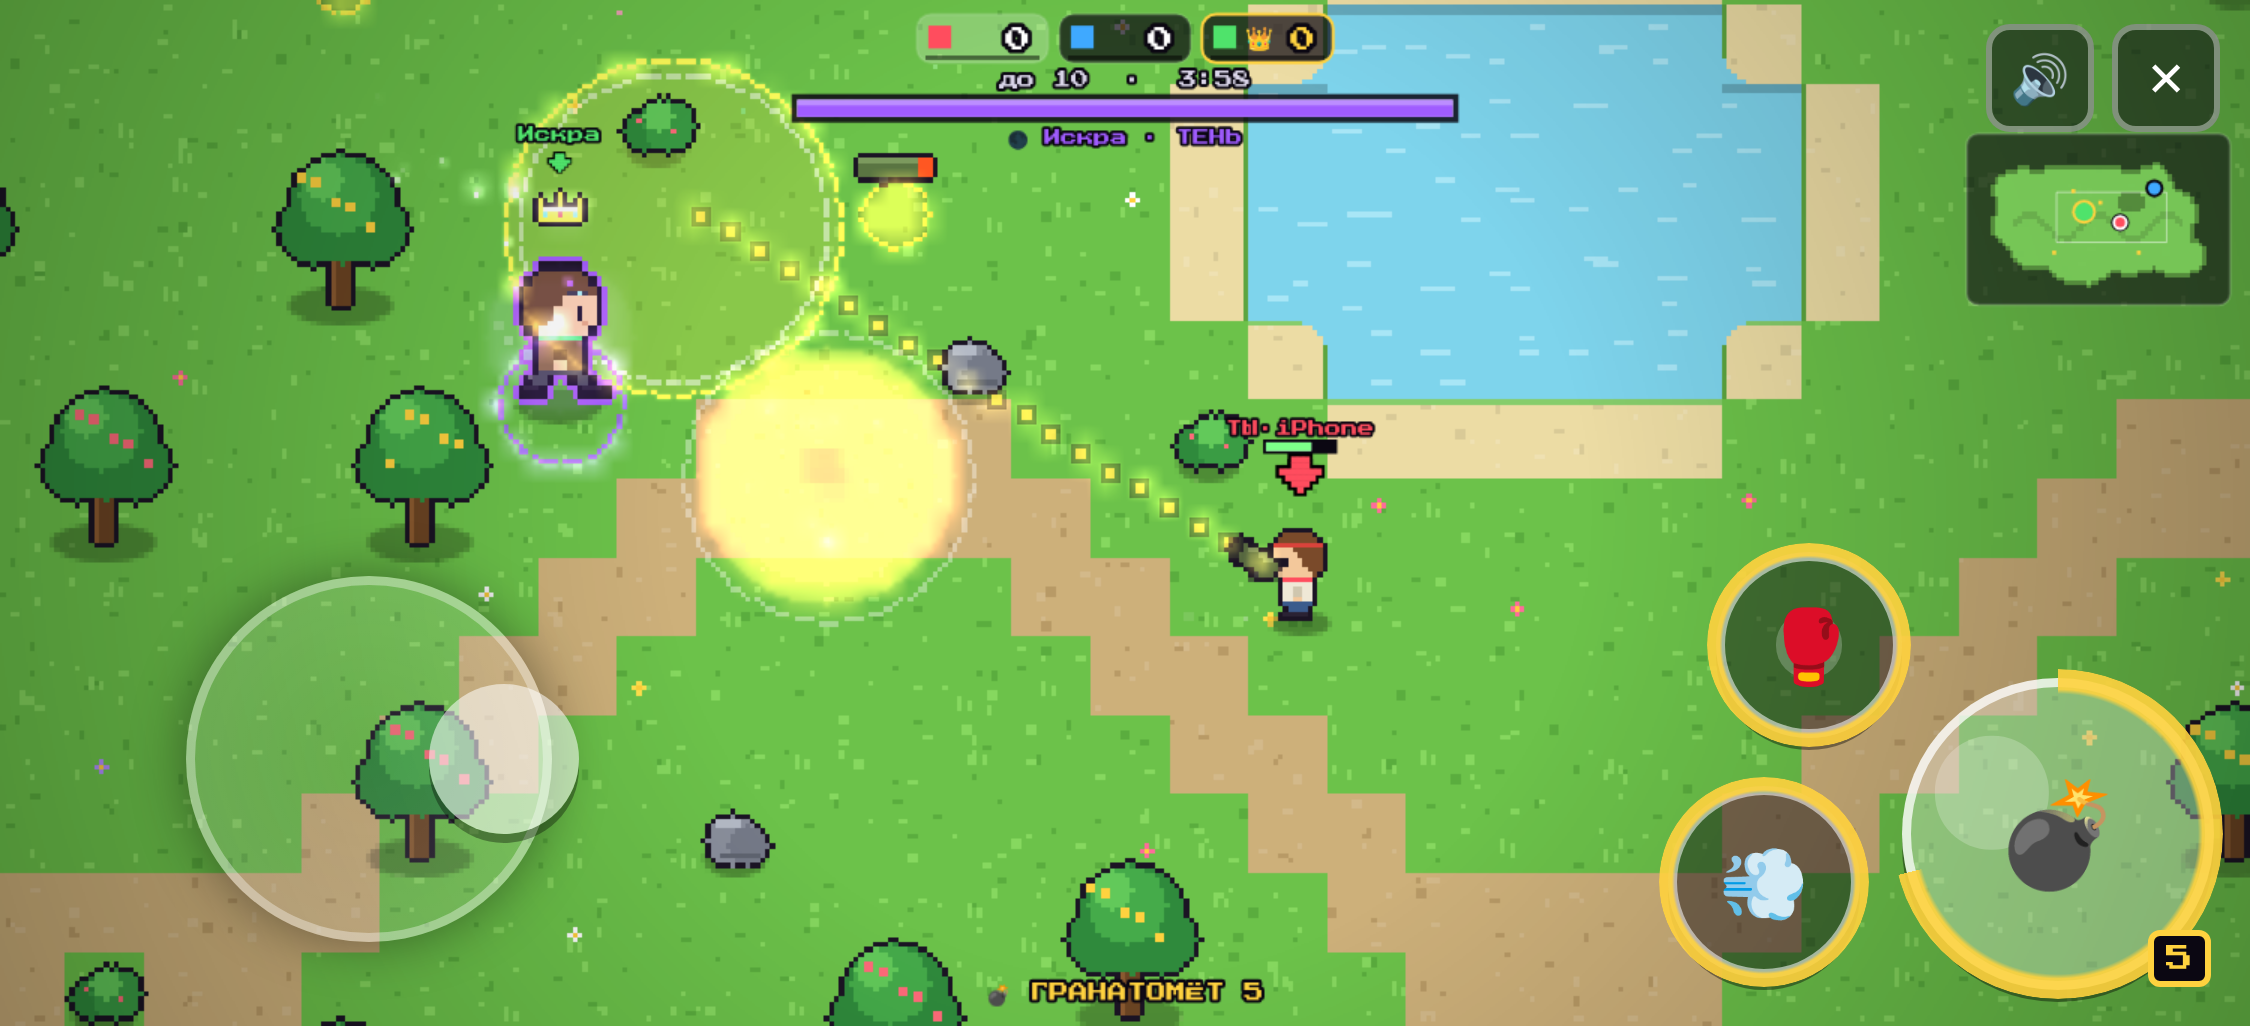
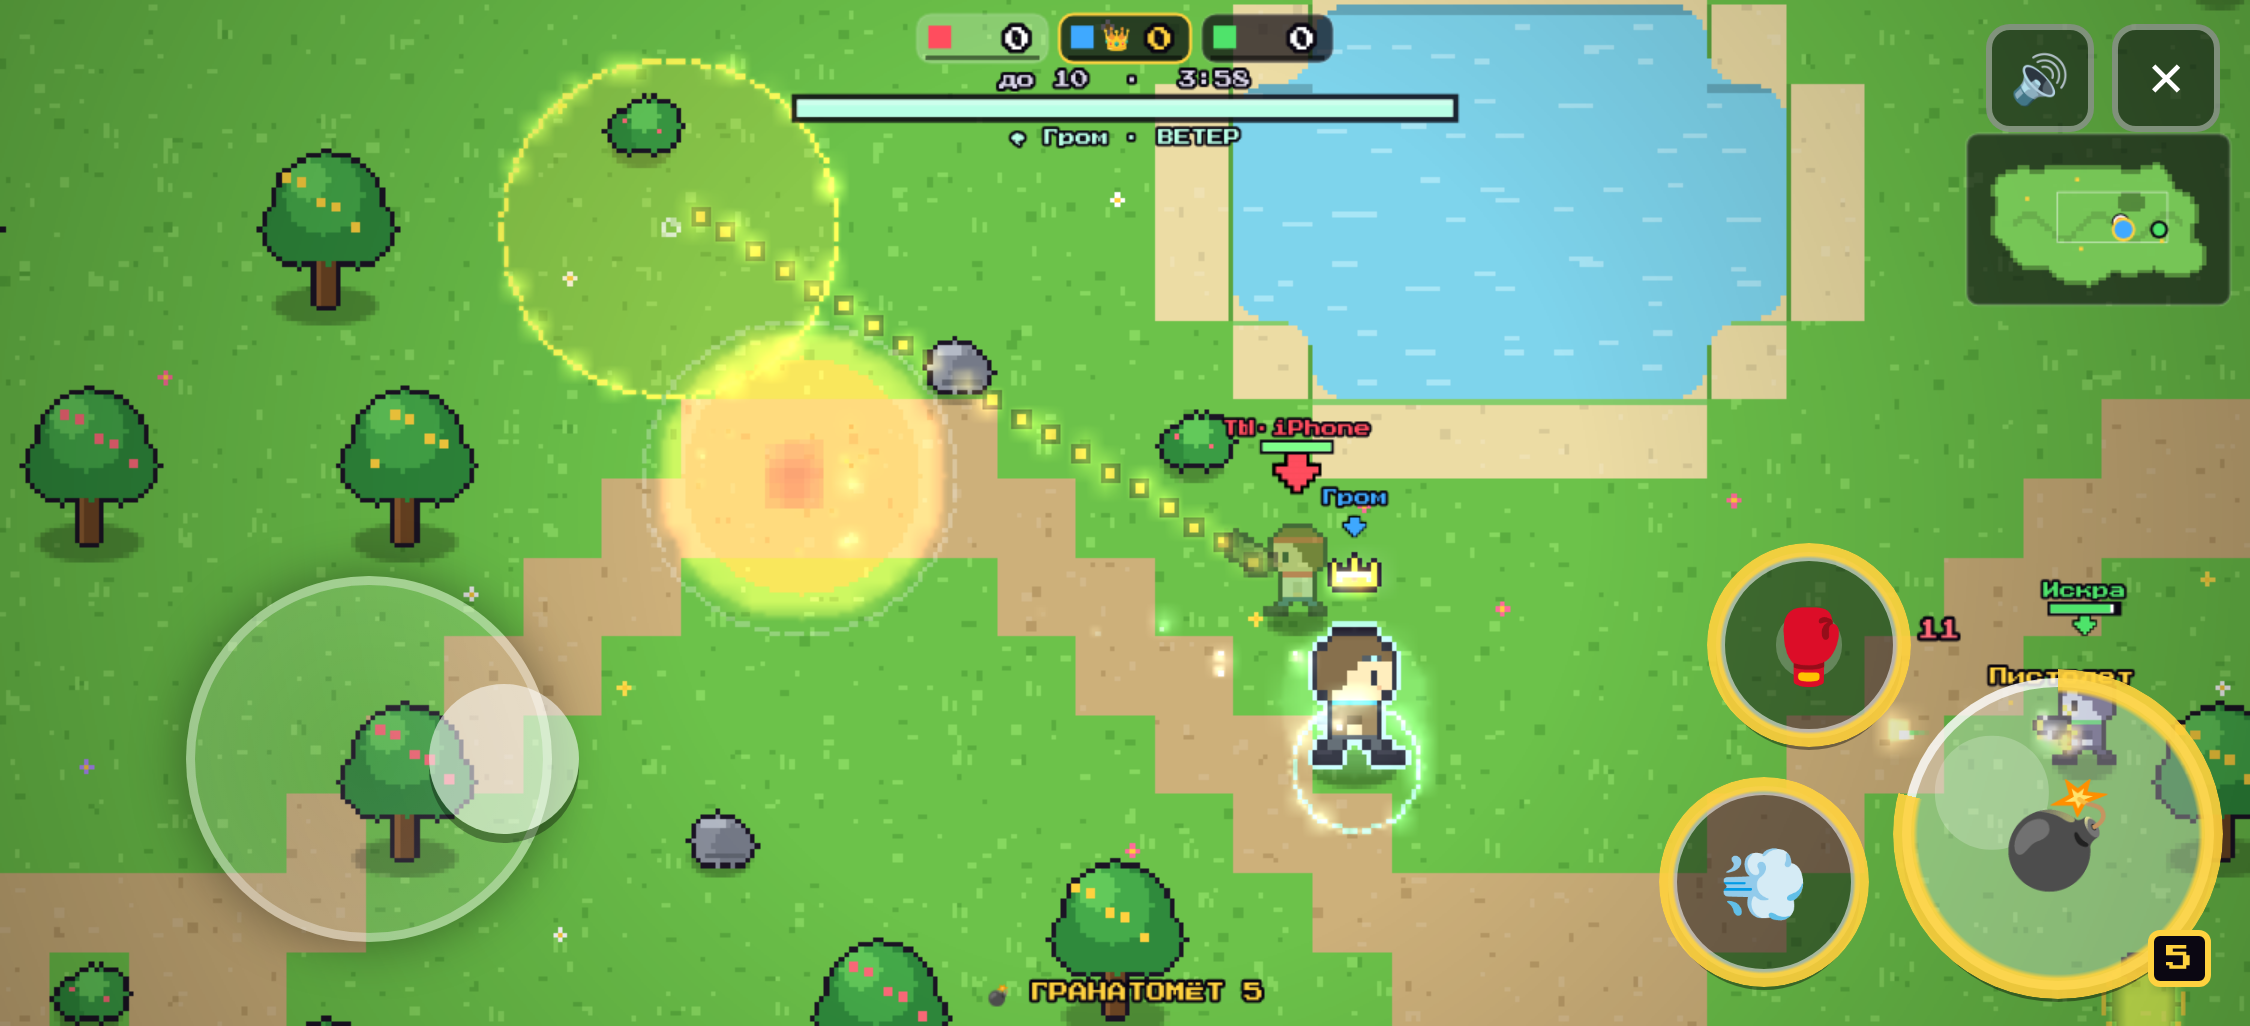
fix: single-file bundle lost multi-name exports; robust render loop; bundler verifies imports
Claude-Session: https://claude.ai/code/session_01KzkSGMndYSYbr87MBsE3kC

diff --git a/izbrannyi.html b/izbrannyi.html
@@ -365,7 +365,8 @@ const { CFG } = __m_src_config_js;
 
 const T = { DEEP: 0, SHALLOW: 1, GROUND: 2, ALT: 3, BLOCK: 4 };
 const { MW, MH, TILE } = CFG;
-const WORLD_W = MW * TILE, WORLD_H = MH * TILE;
+const WORLD_W = MW * TILE;
+const WORLD_H = MH * TILE;
 
 function rng(seed) { let s = seed; return () => { s = (s * 16807) % 2147483647; return (s - 1) / 2147483646; }; }
 function noiseGrid(r, gw, gh) { const g = []; for (let i = 0; i < gw * gh; i++) g.push(r()); return (x, y) => {
@@ -499,7 +500,7 @@ function flowTo(m, x, y, time) {
   flows.set(key, { d, t: time }); return d;
 }
 
-return { T, WORLD_W, getMap, tileAt, walkable, moveCircle, safePoint, flowTo };
+return { T, WORLD_W, WORLD_H, getMap, tileAt, walkable, moveCircle, safePoint, flowTo };
 })();
 // ===== src/sim/world.js =====
 const __m_src_sim_world_js = (() => {
@@ -1565,7 +1566,9 @@ function silhouette(sprite, color) {
   g.drawImage(sprite, 0, 0); g.globalCompositeOperation = 'source-in'; g.fillStyle = color; g.fillRect(0, 0, c.width, c.height);
   m.set(color, c); return c;
 }
-const SPR_W = 16, SPR_H = 20 + PAD, SPR_PAD = PAD;
+const SPR_W = 16;
+const SPR_H = 20 + PAD;
+const SPR_PAD = PAD;
 
 // ---------- рисование из прямоугольников с автоконтуром ----------
 function outline(c, col = OUT) {
@@ -1633,7 +1636,7 @@ function crownSprite() {
   return (crown = c);
 }
 
-return { mk, shade, charSprite, silhouette, SPR_W, gunSprite, objSprite, crownSprite };
+return { mk, shade, charSprite, silhouette, SPR_W, SPR_H, SPR_PAD, gunSprite, objSprite, crownSprite };
 })();
 // ===== src/render/tiles.js =====
 const __m_src_render_tiles_js = (() => {
@@ -2421,7 +2424,8 @@ function drawHud(ctx, view, w, myId, now, art, P, W2S, cx, cy) {
   const offArrow = (e, color, icon) => {
     const [sx, sy] = W2S(e.x, e.y - 8); if (sx > 20 * u && sx < cw - 20 * u && sy > 20 * u && sy < ch - 20 * u) return;
     const a = Math.atan2(sy - ch / 2, sx - cw / 2), rx = cw / 2 - 30 * u, ry = ch / 2 - 62 * u, k = Math.min(rx / Math.abs(Math.cos(a) || 1e-6), ry / Math.abs(Math.sin(a) || 1e-6));
-    const ax = cw / 2 + Math.cos(a) * k, ay = ch / 2 + Math.sin(a) * k, pul = 1 + 0.12 * Math.sin(now / 150);
+    const ax = cw / 2 + Math.cos(a) * k; let ay = ch / 2 + Math.sin(a) * k; const pul = 1 + 0.12 * Math.sin(now / 150);
+    if (ax > mx - 16 * u && ay < my + mh + 18 * u) ay = my + mh + 18 * u; // не залезать на мини-карту
     ctx.save(); ctx.translate(ax, ay); ctx.rotate(a); ctx.scale(pul, pul);
     ctx.fillStyle = '#0b0712'; ctx.beginPath(); ctx.moveTo(13 * u, 0); ctx.lineTo(-7 * u, -10 * u); ctx.lineTo(-7 * u, 10 * u); ctx.closePath(); ctx.fill();
     ctx.fillStyle = color; ctx.beginPath(); ctx.moveTo(10 * u, 0); ctx.lineTo(-5 * u, -7 * u); ctx.lineTo(-5 * u, 7 * u); ctx.closePath(); ctx.fill(); ctx.restore();
@@ -3021,6 +3025,12 @@ function showResults(w) {
 let lastFrame = performance.now();
 const setP = (el, v) => el.style.setProperty('--p', v.toFixed(2));
 function frame(now) {
+  requestAnimationFrame(frame); // сначала планируем следующий кадр: ошибка в одном кадре не остановит игру
+  try { drawFrame(now); } catch (e) { if (!frame.err) { frame.err = true; console.error(e); } }
+}
+function drawFrame(now) {
+  if (canvas.width !== Math.round(innerWidth * view.dpr) || canvas.height !== Math.round(innerHeight * view.dpr)) resize();
+  if (view.cw < 8 || view.ch < 8) return;
   const fdt = Math.min(0.05, (now - lastFrame) / 1000); lastFrame = now;
   let w = null, alpha = 1, opts = { aim: sample.aim };
   if (mode === 'client') {
@@ -3060,7 +3070,6 @@ function frame(now) {
     }
     if (w.match.phase === 'end' && !resultsShown) showResults(w);
   }
-  requestAnimationFrame(frame);
 }
 requestAnimationFrame(frame);
 show('scr-login');

diff --git a/src/render/renderer.js b/src/render/renderer.js
@@ -494,7 +494,8 @@ function drawHud(ctx, view, w, myId, now, art, P, W2S, cx, cy) {
   const offArrow = (e, color, icon) => {
     const [sx, sy] = W2S(e.x, e.y - 8); if (sx > 20 * u && sx < cw - 20 * u && sy > 20 * u && sy < ch - 20 * u) return;
     const a = Math.atan2(sy - ch / 2, sx - cw / 2), rx = cw / 2 - 30 * u, ry = ch / 2 - 62 * u, k = Math.min(rx / Math.abs(Math.cos(a) || 1e-6), ry / Math.abs(Math.sin(a) || 1e-6));
-    const ax = cw / 2 + Math.cos(a) * k, ay = ch / 2 + Math.sin(a) * k, pul = 1 + 0.12 * Math.sin(now / 150);
+    const ax = cw / 2 + Math.cos(a) * k; let ay = ch / 2 + Math.sin(a) * k; const pul = 1 + 0.12 * Math.sin(now / 150);
+    if (ax > mx - 16 * u && ay < my + mh + 18 * u) ay = my + mh + 18 * u; // не залезать на мини-карту
     ctx.save(); ctx.translate(ax, ay); ctx.rotate(a); ctx.scale(pul, pul);
     ctx.fillStyle = '#0b0712'; ctx.beginPath(); ctx.moveTo(13 * u, 0); ctx.lineTo(-7 * u, -10 * u); ctx.lineTo(-7 * u, 10 * u); ctx.closePath(); ctx.fill();
     ctx.fillStyle = color; ctx.beginPath(); ctx.moveTo(10 * u, 0); ctx.lineTo(-5 * u, -7 * u); ctx.lineTo(-5 * u, 7 * u); ctx.closePath(); ctx.fill(); ctx.restore();

diff --git a/src/main.js b/src/main.js
@@ -315,6 +315,12 @@ function showResults(w) {
 let lastFrame = performance.now();
 const setP = (el, v) => el.style.setProperty('--p', v.toFixed(2));
 function frame(now) {
+  requestAnimationFrame(frame); // сначала планируем следующий кадр: ошибка в одном кадре не остановит игру
+  try { drawFrame(now); } catch (e) { if (!frame.err) { frame.err = true; console.error(e); } }
+}
+function drawFrame(now) {
+  if (canvas.width !== Math.round(innerWidth * view.dpr) || canvas.height !== Math.round(innerHeight * view.dpr)) resize();
+  if (view.cw < 8 || view.ch < 8) return;
   const fdt = Math.min(0.05, (now - lastFrame) / 1000); lastFrame = now;
   let w = null, alpha = 1, opts = { aim: sample.aim };
   if (mode === 'client') {
@@ -354,7 +360,6 @@ function frame(now) {
     }
     if (w.match.phase === 'end' && !resultsShown) showResults(w);
   }
-  requestAnimationFrame(frame);
 }
 requestAnimationFrame(frame);
 show('scr-login');

diff --git a/src/render/sprites.js b/src/render/sprites.js
@@ -105,7 +105,9 @@ export function silhouette(sprite, color) {
   g.drawImage(sprite, 0, 0); g.globalCompositeOperation = 'source-in'; g.fillStyle = color; g.fillRect(0, 0, c.width, c.height);
   m.set(color, c); return c;
 }
-export const SPR_W = 16, SPR_H = 20 + PAD, SPR_PAD = PAD;
+export const SPR_W = 16;
+export const SPR_H = 20 + PAD;
+export const SPR_PAD = PAD;
 
 // ---------- рисование из прямоугольников с автоконтуром ----------
 function outline(c, col = OUT) {

diff --git a/src/sim/maps.js b/src/sim/maps.js
@@ -3,7 +3,8 @@ import { CFG } from '../config.js';
 
 export const T = { DEEP: 0, SHALLOW: 1, GROUND: 2, ALT: 3, BLOCK: 4 };
 const { MW, MH, TILE } = CFG;
-export const WORLD_W = MW * TILE, WORLD_H = MH * TILE;
+export const WORLD_W = MW * TILE;
+export const WORLD_H = MH * TILE;
 
 function rng(seed) { let s = seed; return () => { s = (s * 16807) % 2147483647; return (s - 1) / 2147483646; }; }
 function noiseGrid(r, gw, gh) { const g = []; for (let i = 0; i < gw * gh; i++) g.push(r()); return (x, y) => {

diff --git a/tools/build.py b/tools/build.py
@@ -11,6 +11,7 @@ def visit(mod):
     order.append(mod)
 visit('src/main.js')
 var = lambda m: '__m_' + re.sub(r'\W', '_', m)
+EXPORTS, IMPORTS = {}, []
 js = []
 for mod in order:
     src = open(os.path.join(ROOT, mod)).read()
@@ -18,11 +19,16 @@ for mod in order:
         names, dep = m.group(1), m.group(2)
         dep = posixpath.normpath(posixpath.join(posixpath.dirname(mod), dep))
         names = names.strip().strip('{}').replace(' as ', ': ')
+        IMPORTS.append((mod, dep, [n.split(':')[0].strip() for n in names.split(',') if n.strip()]))
         return f'const {{{names}}} = {var(dep)};'
     src = re.sub(r"^import (.+?) from '(.+?)';", imp, src, flags=re.M)
     exports = re.findall(r'^export (?:const|let|function|class) (\w+)', src, flags=re.M)
+    EXPORTS[mod] = set(exports)
     src = re.sub(r'^export ', '', src, flags=re.M)
     js.append(f'// ===== {mod} =====\nconst {var(mod)} = (() => {{\n{src}\nreturn {{ {", ".join(exports)} }};\n}})();')
+missing = [(m, d, n) for m, d, ns in IMPORTS for n in ns if n not in EXPORTS.get(d, set())]
+if missing:
+    raise SystemExit('Сборка остановлена, не найден экспорт: ' + '; '.join(f'{m} <- {d}: {n}' for m, d, n in missing))
 html = open(os.path.join(ROOT, 'index.html')).read()
 css = open(os.path.join(ROOT, 'style.css')).read()
 peer = open(os.path.join(ROOT, 'lib/peerjs.min.js')).read()
